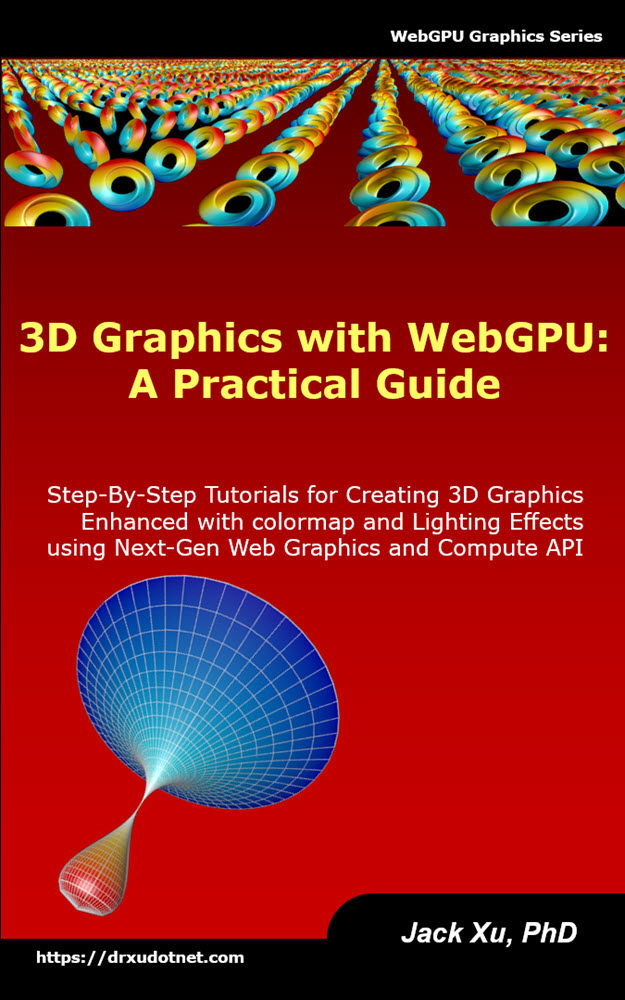
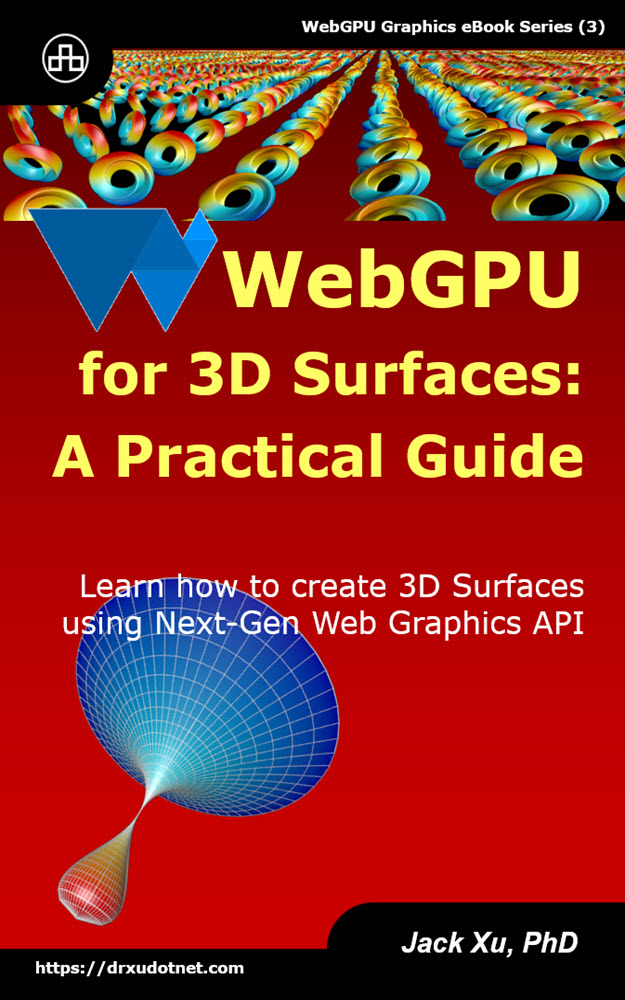
initial commit

diff --git a/src/html/side-nav.html b/src/html/side-nav.html
@@ -1,5 +1,5 @@
 <div class="menu">
-    <h3>WebGPU Graphics</h3>
+    <h3>WebGPU 3D Surfaces</h3>
     <ul class="nav-ul">
         <li><a class="example" href="#index">Home </a></li>
 
